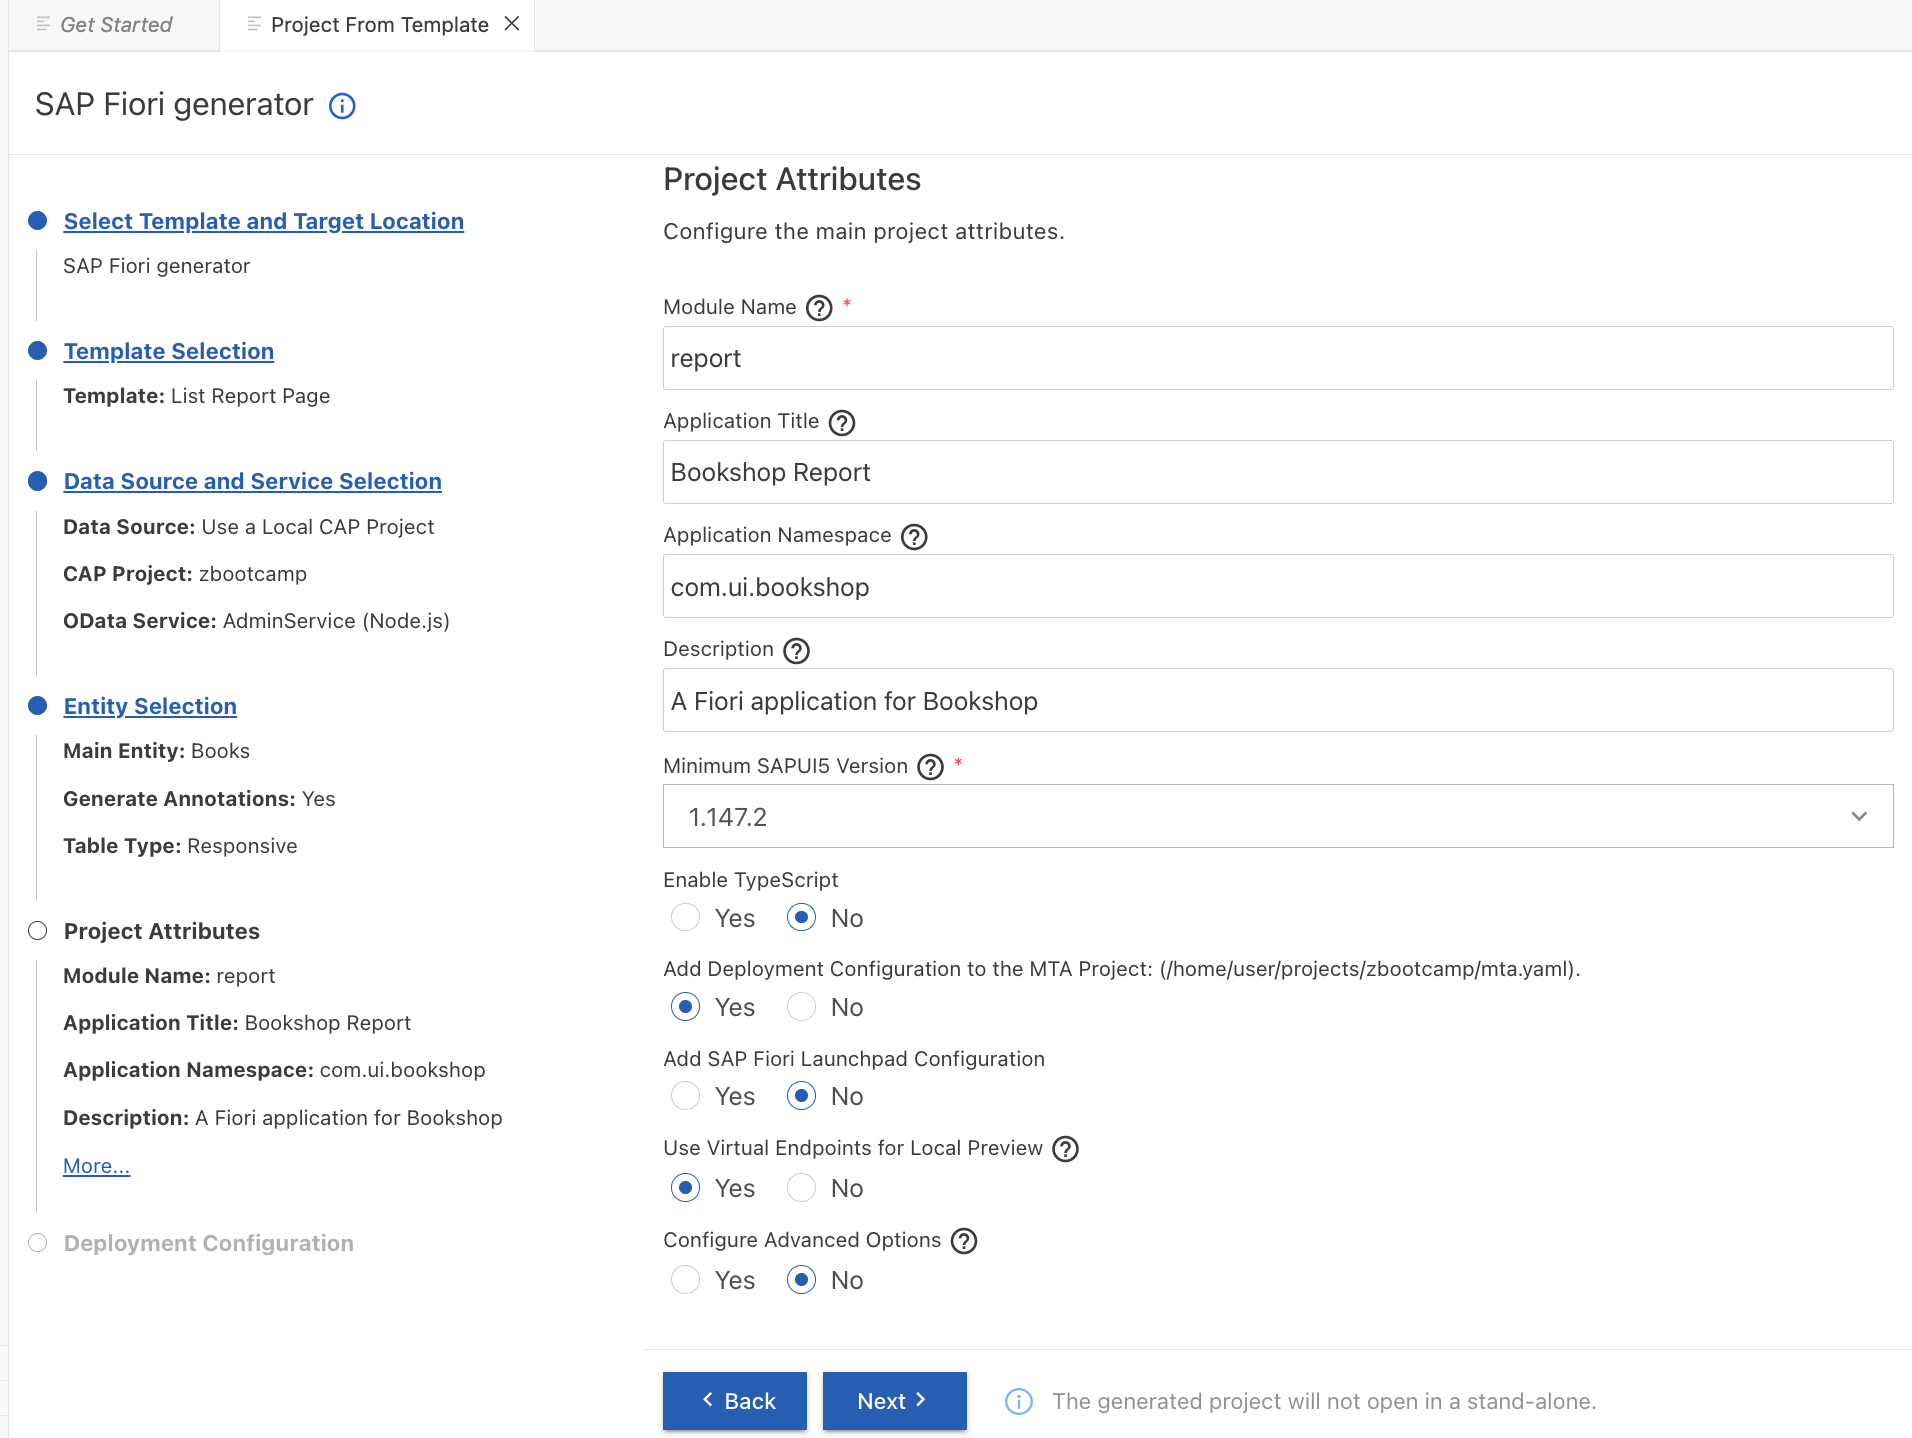
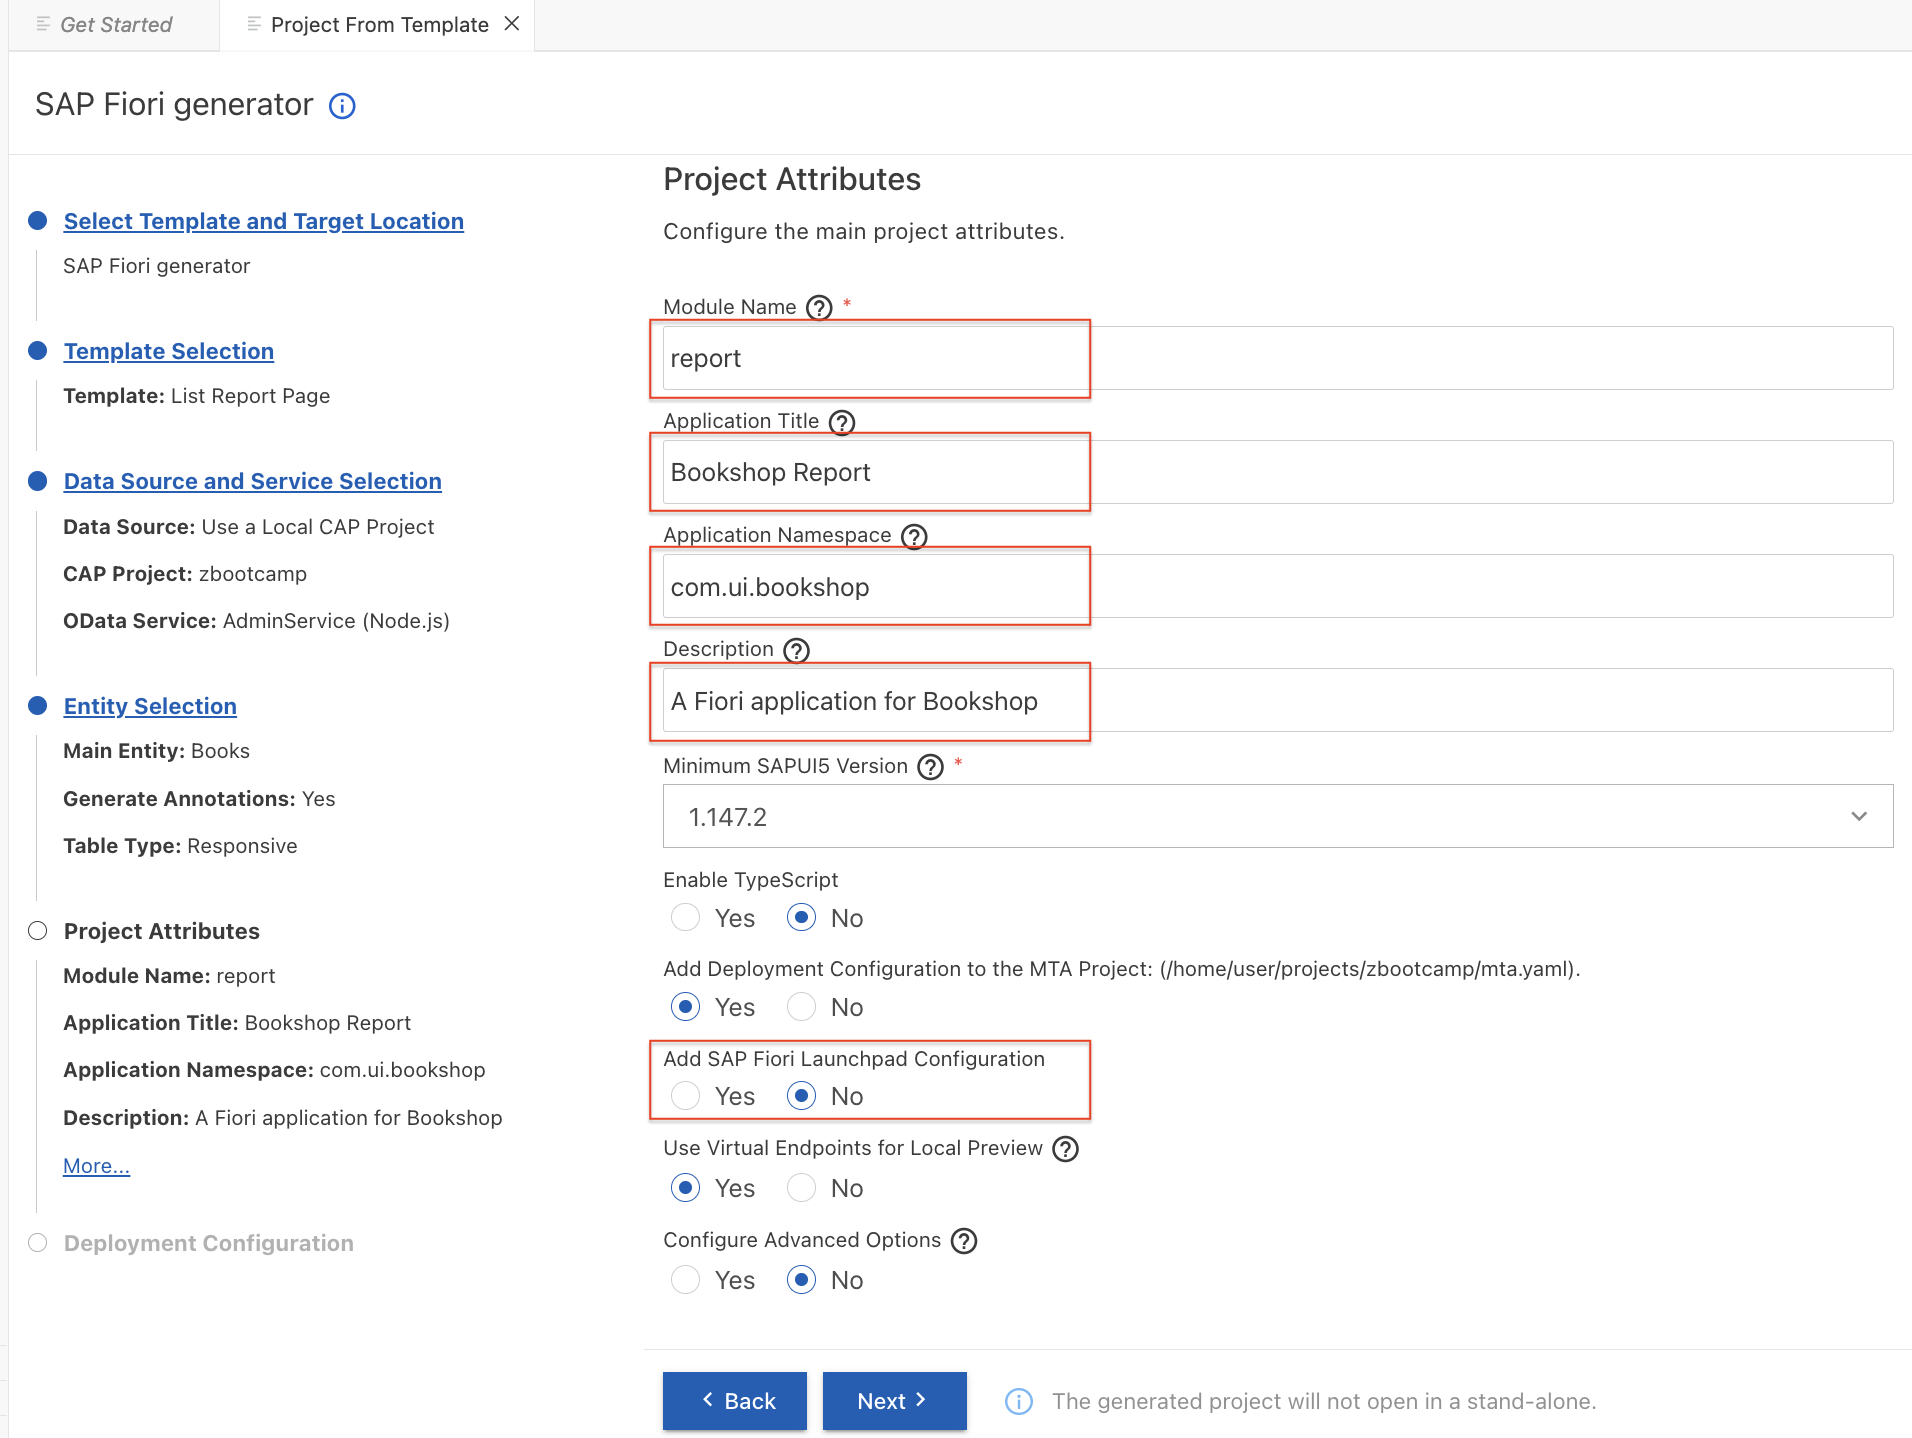
Re-factor exercises from Day 5 - 7.

diff --git a/Day-5-Exercise-1-Add-SAP-Fiori-Elements.md b/Day-5-Exercise-1-Add-SAP-Fiori-Elements.md
@@ -6,12 +6,6 @@ This is a reference of Code for Day 5 Exercise 1
 1. In `BAS`, open command palette (`Shift + Command + P for MAC` / `Ctrl + Shift + P for WIN`). Choose `Fiori: Open Application Generator`.<br>  
 <kbd> ![Description](images/Day5-Exercise1-Open-App-Generator.png)</kbd>
 
-2. **Alternatively**, from Get Started Page. Choose `Menu` > `Help` > `Get Started` > `New Project from Template`.<br>   
-    <kbd> ![Description](images/Day5-Exercise1-New-Proj-Template.png)</kbd>
-
-    Then select `SAP Fiori Generator`.
-    <kbd> ![Description](images/Day5-Exercise1-SAPUI5-Generator.png)</kbd>
-
 ## Template Selection
 ### Step
 1. Select `List Report Page` from Template Selection. Click `Next`.<br>  
@@ -56,6 +50,7 @@ This is a reference of Code for Day 5 Exercise 1
     <kbd> ![Description](images/Day5-Exercise1-Deployment-Configuration.png)</kbd>
     
  ## Summary of Generated Fiori Project
+It will take a while to generate the UI components. After that, a summary of Generated Fiori Project will be displayed.
 <kbd> ![Description](images/Day5-Exercise1-App-Report-Preview.png)</kbd>
  
  ## Project Structure

diff --git a/Day-5-Exercise-2-Add-Annotation.md b/Day-5-Exercise-2-Add-Annotation.md
@@ -3,7 +3,7 @@ This is a reference of Code for Day 5 Exercise 2
 
 ## Add annotation for Selection Fields
 ### Steps
-1. Open **annotation.cds** in `app` > `report` folder path. 
+1. Open `annotation.cds` in `app` > `report` folder path. 
 2. Add annotations to service `Books` in end of the line.
 ```cds
 annotate service.Books with @(
@@ -30,7 +30,7 @@ annotate service.Books with @(
     ```
     <kbd> ![Description](images/Day5-Exercise2-Add-Draft.png)</kbd>
 
-3. Next is to `re-build` our local database. Execute the command below in `terminal`.
+3. Next is to `re-build` our local database. Execute the command below in `terminal`. Terminate the terminal by using `ctrl + c`, then execute the command below.
     ```cds
     cds build
     cds deploy –to sqlite

diff --git a/Day-7-Exercise-1-Deploy-SAP-BTP-Cloud-Foundry.md b/Day-7-Exercise-1-Deploy-SAP-BTP-Cloud-Foundry.md
@@ -42,15 +42,6 @@ This is a reference of Code for Day 7 Exercise 1
 2. The **package.json** will be modified and will include configuration for production database which is Hana Cloud. Also, the **yaml** file will be modified. <br>   
 <kbd> ![Description](images/Day7-Exercise1-HANA-Config.png)</kbd>  
 
-### Execute npm install
-#### Steps
-1. Open **terminal** and execute command below to install dependencies.
-    ```cds
-    npm install
-    ```
-    <kbd> ![Description](images/Day7-Exercise1-npm-install.png)</kbd>  
-
-
 ### Install Modules
 ### Steps
 1. Open again **terminal** and execute the command below:

diff --git a/Day-6-Exercise-2-Create-SAP-HANA-Database.md b/Day-6-Exercise-2-Create-SAP-HANA-Database.md
@@ -21,8 +21,9 @@ This is a reference of Code for Day 6 Exercise 2
     <kbd> ![Description](images/Day6-Exercise2-Assign-Role-Collection.png)</kbd>
 
 6. Once role assignment is completed, go back to `Instances and Subscription` > `SAP HANA Cloud` and click `Go to Application`.
+    > [Note] Before you create SAP HANA Cloud Instance, please logout to propagate the Role Collection.
 
-    <kbd> ![Description](images/Day6-Exercise2-Open-SAP-HANA-Cloud.png)</kbd>
+<kbd> ![Description](images/Day6-Exercise2-Open-SAP-HANA-Cloud.png)</kbd>
 
 ## Create SAP HANA Database
 

diff --git a/Day-1-Exercise-0-Setup-BAS.md b/Day-1-Exercise-0-Setup-BAS.md
@@ -1,13 +1,6 @@
 # Day 1 Exercise 0 - Setup of BAS
 This is a reference of Code for Day 1 Exercise.
 
-# DUMMY
-## Create initial project via Wizard
-### Steps:
-1
-    - admin/Books    
-<kbd>  ![Description](images/Day1-Exercise1-Books-Data.png) </kbd>
-
 ## Open BAS
 ### Steps:
 
